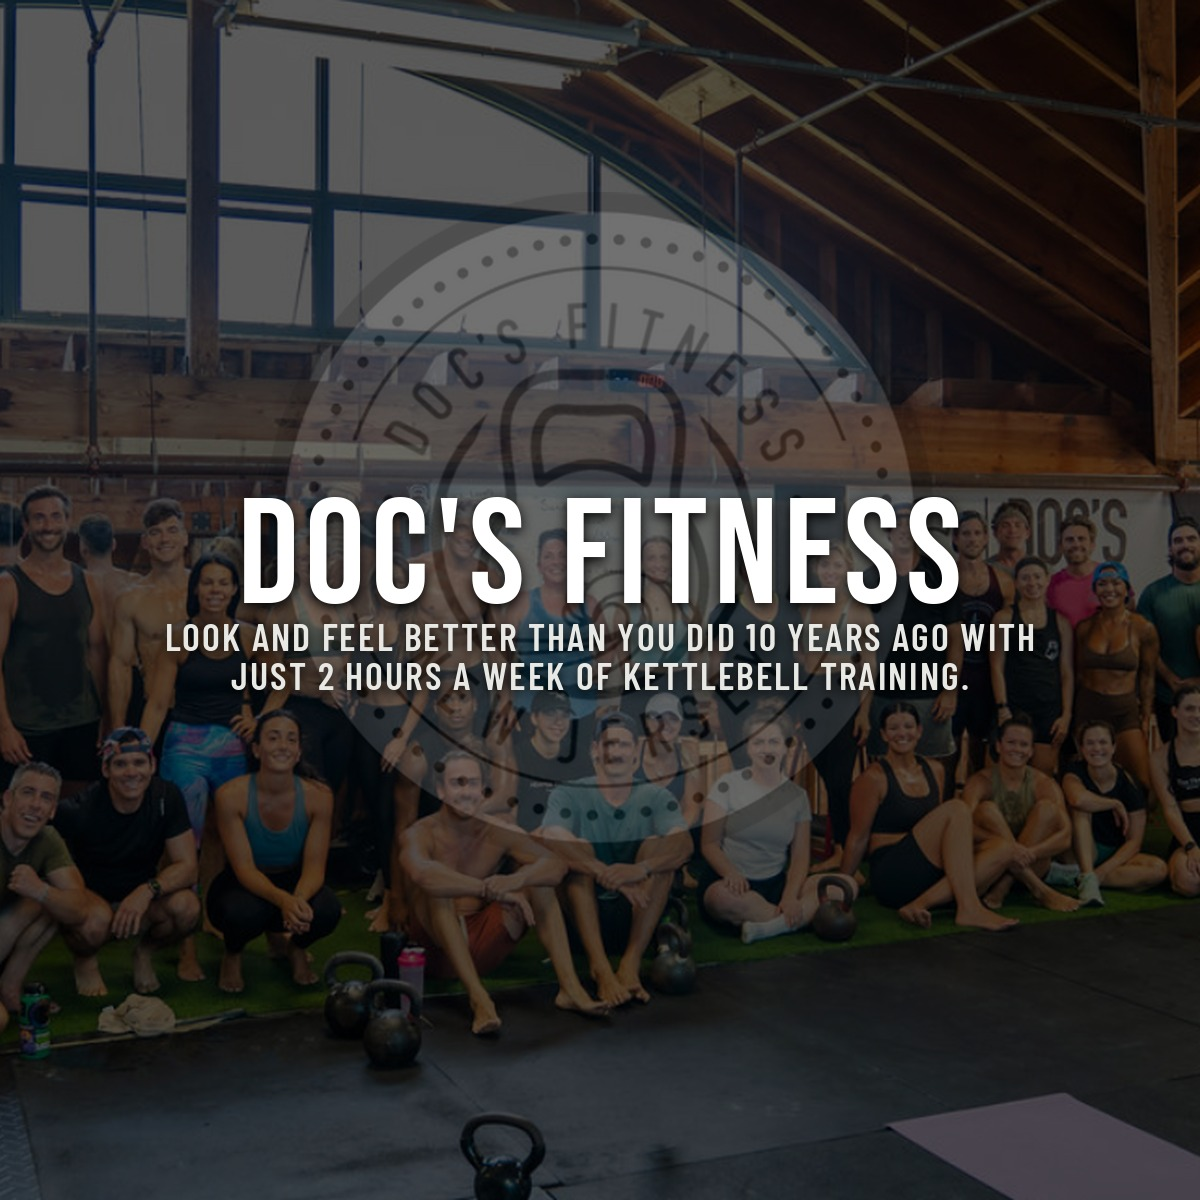
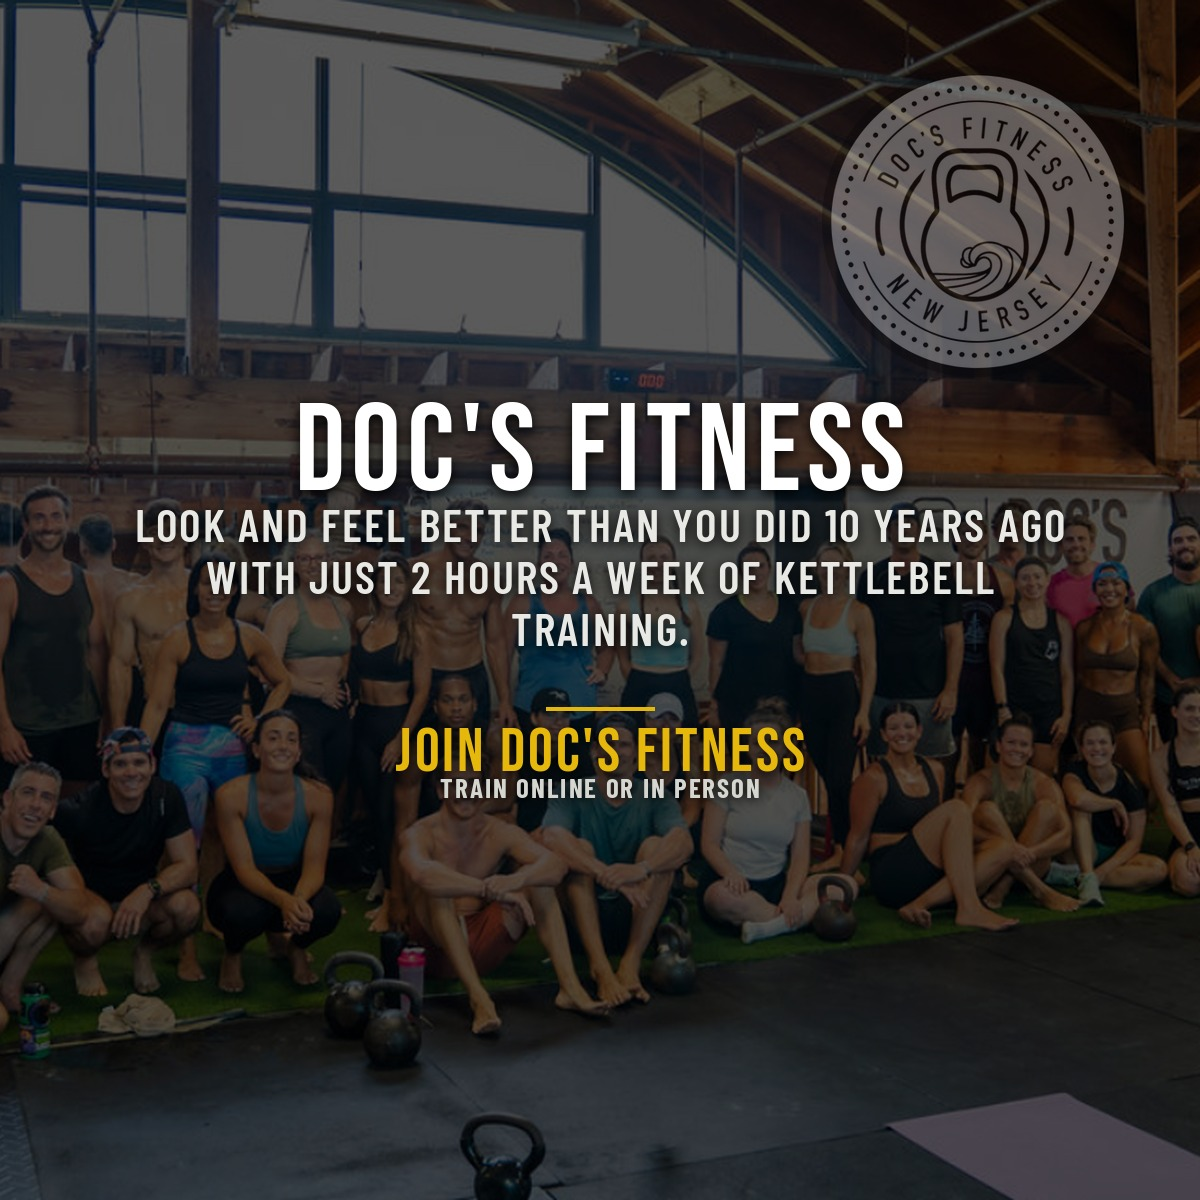
Fix iMessage crop/duplicate, unusable desktop share screen, redesign share image
1. iMessage was cropping and visually doubling the share preview text.
   Root cause: with the wide 1200x630 image listed as the first og:image
   tag, consumers that grab the first tag and center-crop it to their own
   preferred shape (iMessage's LinkPresentation in particular) were
   slicing off both sides of the near-full-width headline text. Reordered
   public/index.html so the square 1200x1200 image is declared first —
   that crop becomes a no-op there — while the wide image stays available
   second for consumers that want it, and twitter:image (read independently)
   still points at the wide version for Twitter/X's card format.

2. The Invite a Friend confirmation screen was unusable on desktop: the
   preview image had no width cap, so on the About page's full-bleed
   desktop layout it stretched to the full browser width, pushed SHARE and
   COPY LINK off screen, and the content wasn't even in a ScrollView to
   reach them. Capped the whole content column at 560px (centered) on
   desktop and wrapped it in a ScrollView as a general safeguard. Mobile
   layout is unchanged.

3. Redesigned both share images per feedback: moved the semi-transparent
   badge from center (behind the headline) to the top-right corner: made
   the tagline noticeably larger; and added a "JOIN DOC'S FITNESS / TRAIN
   ONLINE OR IN PERSON" call to action at the bottom, set apart with a gold
   divider and gold headline color so it reads as the action rather than
[…]

Changed region(s): [[0.0925, 0.0617, 0.9558, 0.7092]]

diff --git a/src/components/InviteFriendModal.tsx b/src/components/InviteFriendModal.tsx
@@ -1,9 +1,10 @@
 import React, { useState } from 'react';
-import { Image, Pressable, StyleSheet, Text, View } from 'react-native';
+import { Image, Pressable, ScrollView, StyleSheet, Text, View } from 'react-native';
 import { Ionicons } from '@expo/vector-icons';
 import { AppModal } from './AppModal';
 import { ModalHeader } from './ModalHeader';
 import { APP_SHARE_MESSAGE, APP_SHARE_URL, copyInviteLink, shareInvite } from '../lib/links';
+import { useIsDesktop } from '../lib/responsive';
 import { colors, fonts } from '../theme';
 
 type Props = {
@@ -17,11 +18,17 @@ const SHARE_IMAGE = require('../../assets/brand/share-image.jpg');
 // CSS aspectRatio, so the height is computed from a measured width instead.
 const SHARE_IMAGE_RATIO = 1200 / 630;
 const SHARE_DOMAIN = APP_SHARE_URL.replace(/^https?:\/\//, '');
+// This modal can render over the About page's desktop full-bleed layout
+// (no phone-frame width cap in that context), so left uncapped the preview
+// image would stretch to the full browser width and push the buttons off
+// screen. Cap the whole column at a sensible reading width instead.
+const DESKTOP_CONTENT_MAX_WIDTH = 560;
 
 // What the member sees before the native share sheet opens — a preview of
 // exactly what a recipient will get (the link card a chat app will render,
 // plus the message text), with SHARE and a COPY LINK shortcut.
 export function InviteFriendModal({ visible, onClose }: Props) {
+  const isDesktop = useIsDesktop();
   const [cardWidth, setCardWidth] = useState(0);
   const [copied, setCopied] = useState(false);
 
@@ -42,43 +49,45 @@ export function InviteFriendModal({ visible, onClose }: Props) {
       <View style={styles.container}>
         <ModalHeader title="INVITE A FRIEND" onBack={onClose} backTestID="close-invite-friend" />
 
-        <View style={styles.body}>
-          <Text style={styles.sectionLabel}>WHAT THEY'LL SEE</Text>
-          <View style={styles.previewCard} testID="invite-link-preview">
-            <View onLayout={(e) => setCardWidth(e.nativeEvent.layout.width)}>
-              {cardWidth > 0 && (
-                <Image
-                  source={SHARE_IMAGE}
-                  style={{ width: cardWidth, height: cardWidth / SHARE_IMAGE_RATIO }}
-                  resizeMode="cover"
-                />
-              )}
+        <ScrollView contentContainerStyle={styles.scrollContent} showsVerticalScrollIndicator={false}>
+          <View style={[styles.body, isDesktop && { maxWidth: DESKTOP_CONTENT_MAX_WIDTH, alignSelf: 'center' }]}>
+            <Text style={styles.sectionLabel}>WHAT THEY'LL SEE</Text>
+            <View style={styles.previewCard} testID="invite-link-preview">
+              <View onLayout={(e) => setCardWidth(e.nativeEvent.layout.width)}>
+                {cardWidth > 0 && (
+                  <Image
+                    source={SHARE_IMAGE}
+                    style={{ width: cardWidth, height: cardWidth / SHARE_IMAGE_RATIO }}
+                    resizeMode="cover"
+                  />
+                )}
+              </View>
+              <View style={styles.previewBody}>
+                <Text style={styles.previewTitle}>Doc's Fitness</Text>
+                <Text style={styles.previewDescription} numberOfLines={2}>
+                  Train online or in person at Doc's Fitness. Kettlebell workouts, a weekly challenge, and class
+                  booking, all in one app.
+                </Text>
+                <Text style={styles.previewDomain}>{SHARE_DOMAIN}</Text>
+              </View>
             </View>
-            <View style={styles.previewBody}>
-              <Text style={styles.previewTitle}>Doc's Fitness</Text>
-              <Text style={styles.previewDescription} numberOfLines={2}>
-                Train online or in person at Doc's Fitness. Kettlebell workouts, a weekly challenge, and class
-                booking, all in one app.
-              </Text>
-              <Text style={styles.previewDomain}>{SHARE_DOMAIN}</Text>
+
+            <Text style={[styles.sectionLabel, styles.messageLabel]}>MESSAGE</Text>
+            <View style={styles.messageBubble}>
+              <Text style={styles.messageText}>{APP_SHARE_MESSAGE}</Text>
             </View>
+
+            <Pressable style={styles.shareButton} onPress={handleShare} testID="invite-share-button">
+              <Ionicons name="share-social-outline" size={18} color={colors.white} />
+              <Text style={styles.shareButtonText}>SHARE</Text>
+            </Pressable>
+
+            <Pressable style={styles.copyButton} onPress={handleCopy} testID="invite-copy-link">
+              <Ionicons name={copied ? 'checkmark' : 'copy-outline'} size={16} color={colors.green} />
+              <Text style={styles.copyButtonText}>{copied ? 'LINK COPIED' : 'COPY LINK'}</Text>
+            </Pressable>
           </View>
-
-          <Text style={[styles.sectionLabel, styles.messageLabel]}>MESSAGE</Text>
-          <View style={styles.messageBubble}>
-            <Text style={styles.messageText}>{APP_SHARE_MESSAGE}</Text>
-          </View>
-
-          <Pressable style={styles.shareButton} onPress={handleShare} testID="invite-share-button">
-            <Ionicons name="share-social-outline" size={18} color={colors.white} />
-            <Text style={styles.shareButtonText}>SHARE</Text>
-          </Pressable>
-
-          <Pressable style={styles.copyButton} onPress={handleCopy} testID="invite-copy-link">
-            <Ionicons name={copied ? 'checkmark' : 'copy-outline'} size={16} color={colors.green} />
-            <Text style={styles.copyButtonText}>{copied ? 'LINK COPIED' : 'COPY LINK'}</Text>
-          </Pressable>
-        </View>
+        </ScrollView>
       </View>
     </AppModal>
   );
@@ -90,7 +99,11 @@ const styles = StyleSheet.create({
     backgroundColor: colors.background,
     paddingTop: 60,
   },
+  scrollContent: {
+    flexGrow: 1,
+  },
   body: {
+    width: '100%',
     paddingHorizontal: 20,
     paddingBottom: 32,
   },

diff --git a/public/index.html b/public/index.html
@@ -21,7 +21,18 @@
     <!-- Open Graph — the rich preview card shown by Messages, WhatsApp,
          Instagram DMs, Slack, and most email clients when this link is
          shared. og:image/og:url must be fully-qualified absolute URLs per
-         spec; relative paths aren't reliably resolved by every crawler. -->
+         spec; relative paths aren't reliably resolved by every crawler.
+
+         The square image is listed FIRST and the wide 1200x630 image
+         second: several consumers that declare multiple og:image tags
+         (iMessage's LinkPresentation in particular) just take the first
+         one and center-crop it to whatever shape their card wants rather
+         than picking the best-fitting alternate — with the wide image
+         first, that cropped the headline text on both sides. Leading with
+         the square image means that crop is a no-op there, while
+         consumers that do handle multiple images/prefer widescreen (e.g.
+         Twitter/X, which reads its own dedicated twitter:image below) still
+         get the 1200x630 version. -->
     <meta property="og:type" content="website" />
     <meta property="og:url" content="https://docsfitnessnj.github.io/docs-fitness-app" />
     <meta property="og:title" content="Doc's Fitness" />
@@ -29,14 +40,13 @@
       property="og:description"
       content="Train online or in person at Doc's Fitness. Kettlebell workouts, a weekly challenge, and class booking, all in one app."
     />
-    <meta property="og:image" content="https://docsfitnessnj.github.io/docs-fitness-app/share-image.jpg" />
-    <meta property="og:image:width" content="1200" />
-    <meta property="og:image:height" content="630" />
-    <meta property="og:image:alt" content="Doc's Fitness — kettlebell training, in person and online." />
-    <!-- A square alternate for platforms that prefer a 1:1 crop. -->
     <meta property="og:image" content="https://docsfitnessnj.github.io/docs-fitness-app/share-image-square.jpg" />
     <meta property="og:image:width" content="1200" />
     <meta property="og:image:height" content="1200" />
+    <meta property="og:image:alt" content="Doc's Fitness — kettlebell training, in person and online." />
+    <meta property="og:image" content="https://docsfitnessnj.github.io/docs-fitness-app/share-image.jpg" />
+    <meta property="og:image:width" content="1200" />
+    <meta property="og:image:height" content="630" />
     <meta property="og:image:alt" content="Doc's Fitness — kettlebell training, in person and online." />
 
     <!-- Twitter/X Card — mirrors the Open Graph tags above. -->
